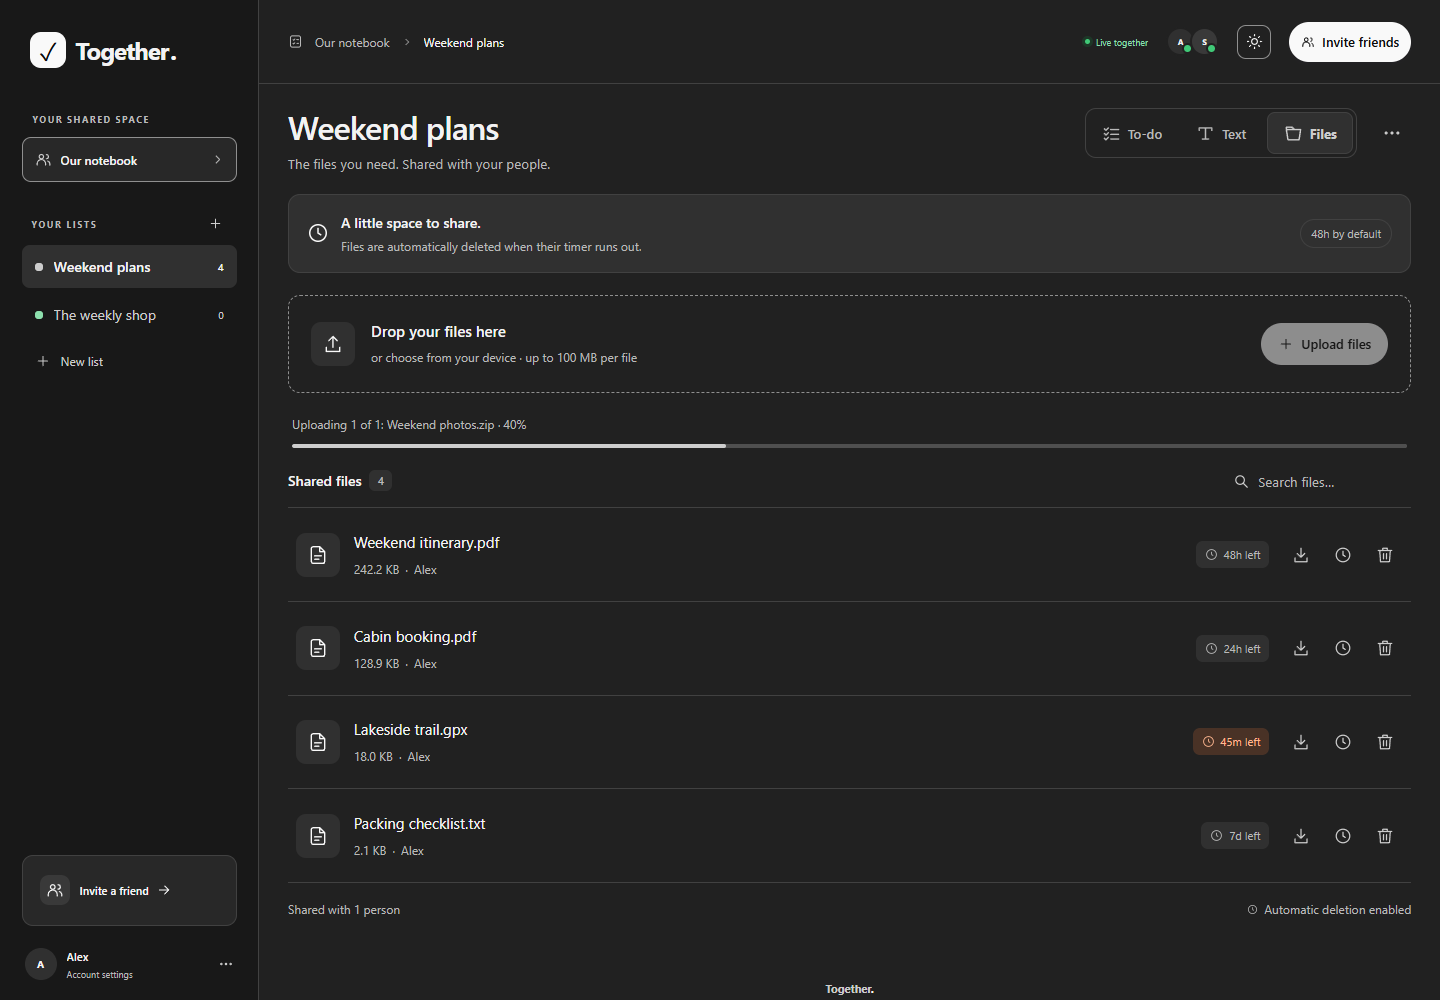
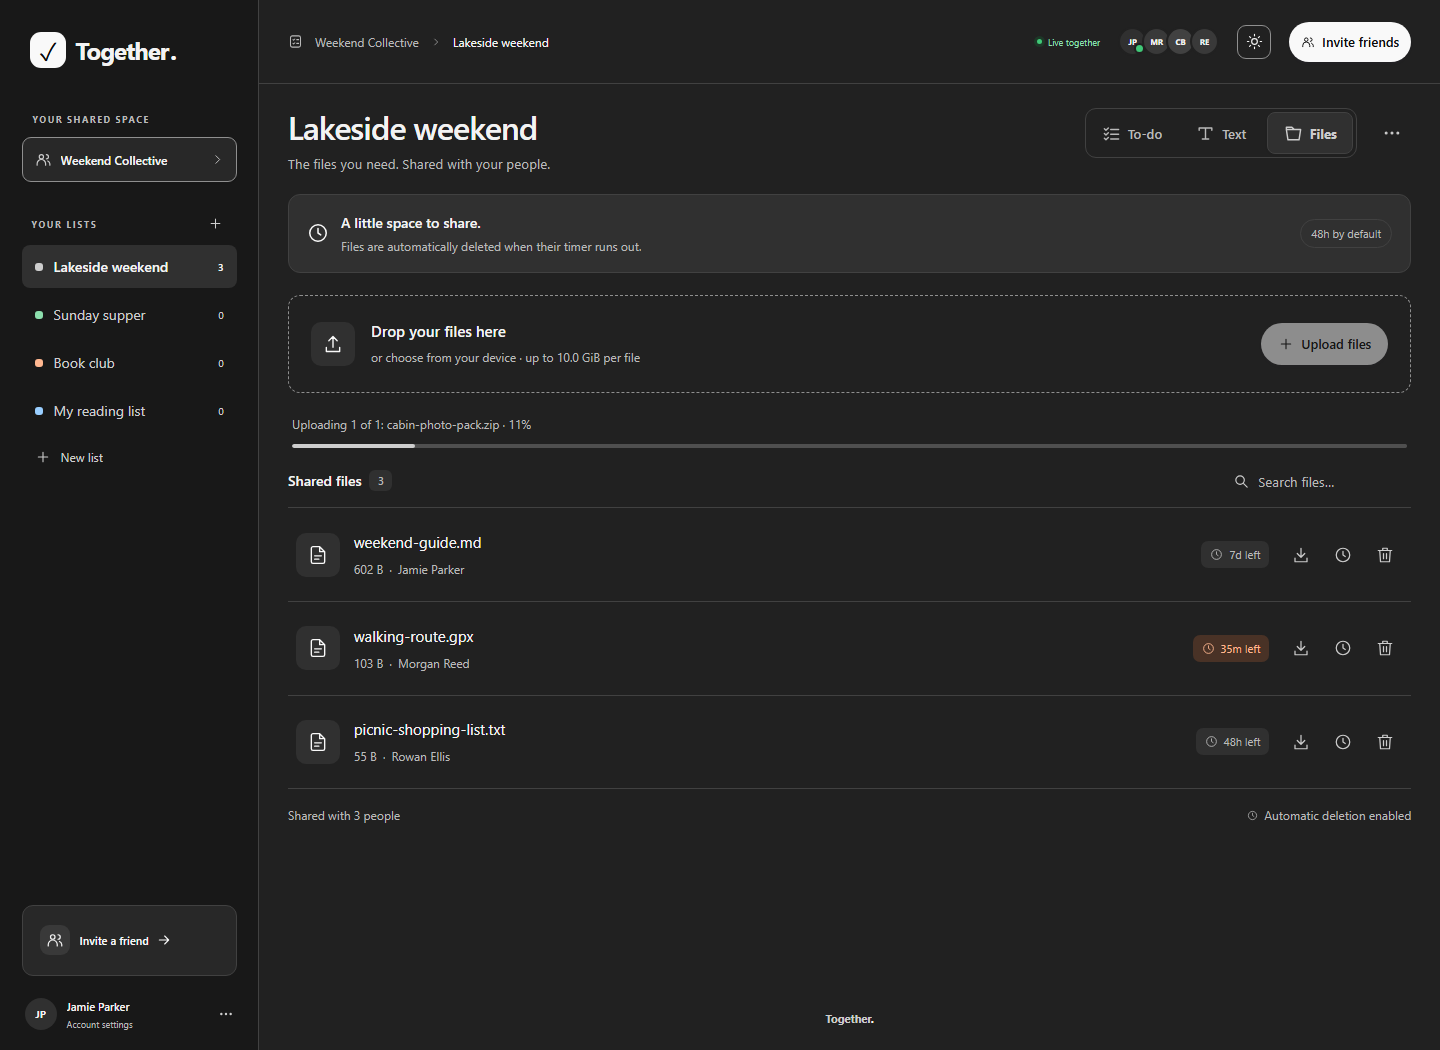
docs: refresh English README with fictional demo screenshots

diff --git a/README.md b/README.md
@@ -1,17 +1,23 @@
 # Together
 
-Private, shared to-do lists, text documents, and temporary file sharing for friends and small groups. Self-hosted with Node.js 24 and SQLite.
+A little less to remember. Private, shared to-do lists, collaborative notes, and temporary file sharing for friends and small groups.
 
-- Shared lists, task notes, search, and live updates.
-- Your browser remembers the last selected view (To-do, Text, or Files) and task filter (All tasks, To do, or Done), including after reopening the app or switching lists.
-- Switch each list between tasks and a shared text document. Add, rename, and delete text sheets using the tabs at the bottom. Text saves automatically and concurrent edits are merged live.
-- Use **View as Markdown** in the text sheet toolbar to preview headings, lists, links, tables, and code blocks. Choose **Edit text** to return to the original text; the preview also follows live changes.
-- Download a text sheet as **Plain text (.txt)** or **Markdown (.md)** using the download button in its toolbar. Both formats include the current text, including unsaved changes.
-- Share files with multi-file uploads, drag and drop, upload progress, filename search, downloads, and manual deletion (10 GiB per file by default; configurable by the notebook owner).
-- Files expire automatically after 48 hours by default. Set a different deletion time for each file using the clock button beside download.
-- Invite-only accounts with owner-managed access.
-- Private lists with per-person view or edit permissions, including tasks, text sheets, and shared files.
-- Responsive layout with light and dark themes.
+Self-host Together with **Node.js 24+ and SQLite**, or start it with Docker Compose. Invite your people, share only the lists they need, and keep tasks, plans, and files in one place.
+
+![Together in dark mode: a fictional group planning a lakeside weekend, with task notes, completion history, progress, and multiple lists](docs/screenshots/desktop-dark.png)
+
+All screenshots use an entirely fictional demo notebook, **Weekend Collective**. Names, email addresses, tasks, notes, and files are made-up examples captured in the running app.
+
+## What you can do
+
+| Feature | Included |
+| --- | --- |
+| Shared tasks | Multiple lists, colors, optional notes, search, task filters, progress, completion history, and bulk actions. |
+| Collaborative text | Multiple sheets per list, automatic saving, live merging of concurrent edits, Markdown preview, and text or Markdown downloads. |
+| Temporary file sharing | Multiple uploads, drag and drop, upload progress, filename search, downloads, configurable deletion times, and manual deletion. |
+| Invitations and permissions | Email-bound invitation links and separate view or edit access for each list. New lists start private. |
+| Live updates | Changes appear in connected browsers, with connection status and collaborator avatars. |
+| Personal preferences | Light and dark themes, responsive layouts, and remembered list, view, and task-filter selections. |
 
 ## Quick start
 
@@ -19,85 +25,183 @@ Private, shared to-do lists, text documents, and temporary file sharing for frie
 docker compose up -d --build
 ```
 
-Open [localhost:3000](http://localhost:3000), create the owner account, and share invitation links with friends. Create the owner account before making the app publicly accessible. Data persists in a Docker volume.
+Open [localhost:3000](http://localhost:3000) and create the first account. This account becomes the notebook owner and can invite other people. Create it before making the app publicly accessible.
 
-## Configuration
+Docker stores the database and uploaded files in the persistent `together-data` volume.
 
-Copy `.env.example` to `.env` to customize the public `APP_URL`, `PORT`, and `BIND_ADDRESS`. Use HTTPS for public hosting. For direct LAN access, set `BIND_ADDRESS=0.0.0.0` and `APP_URL` to your server's address.
+### Configuration
 
-Without Docker: run `npm start` with Node.js 24+; no dependencies to install. Checks: `npm run check` and `npm test`.
+Copy `.env.example` to `.env` to customize the Docker Compose settings:
 
-Source code lives in `src/server/` (Node.js and SQLite) and `src/web/` (browser UI). Tests live in `tests/`.
+| Setting | Default | Purpose |
+| --- | --- | --- |
+| `APP_URL` | `http://localhost:3000` | Public address people use to open Together. |
+| `PORT` | `3000` | Port exposed on the Docker host. |
+| `BIND_ADDRESS` | `127.0.0.1` | Host interface used by Docker Compose. |
 
-Text sheets support up to 100,000 characters each. Keep the tab open until it says “All changes saved”; if saving fails, retry or download the local text using the document toolbar.
+Use HTTPS for public hosting. For direct access on your local network, set `BIND_ADDRESS=0.0.0.0` and set `APP_URL` to your server's address.
 
-## File sharing
+### Run without Docker
 
-Open a list and select the **File share** icon beside the task and text document icons.
+With Node.js 24 or later installed:
 
-- Select **Upload files** to choose one or more files, or drag them into the **Drop your files here** area. The area highlights while dragging; uploads show the filename, percentage, and a progress bar. The current size limit is shown above the upload area.
-- Uploaded files appear one below another with their filename, size, uploader, and remaining time. Use **Search files** to filter by filename and the download button to save a copy.
-- Use the **clock button beside download** to change a file’s deletion time. Choose a duration in minutes, hours, or days, from **1 minute to 30 days**. The new countdown starts when you save; the dialog also shows the currently scheduled deletion time.
-- Use the trash button to delete a file immediately after confirming. Readers can download files; list owners and editors can also upload, change deletion times, and delete files.
+```sh
+npm start
+```
 
-Every completed upload starts with a **48-hour** lifetime. The server automatically deletes expired files from storage and updates connected browsers, even when no one has the list open. Downloads stop at expiry, and expired files cannot be extended. If the server was stopped, it cleans up overdue files on restart. Deleting a list also deletes its shared files.
+There are no dependencies to install. The server listens on all interfaces, using `PORT=3000` by default. For a native installation, set `APP_URL`, `PORT`, and `DATABASE_PATH` through your process environment; `.env` is used by Docker Compose and is not loaded automatically by `npm start`. The default database path is `data/together.sqlite`.
+
+## Tasks that keep everyone on the same page
+
+Create a list, give it a color, and add tasks with optional notes. Search task titles and notes, switch between **All tasks**, **To do**, and **Done**, and see how much is already finished.
+
+Tasks show who last changed them. Open a task to see its full notes and creation and update details. Completed tasks record who checked them off and when. Use **Check off all** to finish the remaining tasks, or open **Done** to delete completed tasks in one action after confirmation.
+
+The browser remembers your selected list, task filter, and **To-do**, **Text**, or **Files** view when you return.
+
+| Desktop, dark theme | Mobile, dark theme |
+| --- | --- |
+| <img src="docs/screenshots/desktop-dark.png" alt="Dark theme with five fictional weekend tasks, notes, collaborator avatars, two completed tasks, and list progress" width="680"> | <img src="docs/screenshots/mobile-dark.png" alt="Responsive dark theme with task filters, search, notes, edit and delete controls, and completion history" width="240"> |
+
+<details>
+<summary>See task notes and edit history</summary>
+
+![Task details with an editable title, optional notes, delete and save actions, and creation and update metadata](docs/screenshots/task-details-dark.png)
+
+</details>
+
+## Write together, preview Markdown, and take a copy
+
+Select **Text** in any list to open its shared text sheets. Use the tabs and plus button at the bottom to switch or add sheets, and the toolbar to rename or delete them. Changes save automatically, and concurrent edits merge live.
+
+Choose **View as Markdown** to preview headings, checklists, links, tables, and code blocks. Choose **Edit text** to return to the source. The preview follows live changes too.
+
+The download button offers **Plain text (.txt)** and **Markdown (.md)**. Both include the current local text, including changes that have not finished saving.
+
+| Shared text editor, dark theme | Markdown preview, dark theme |
+| --- | --- |
+| <img src="docs/screenshots/desktop-text-dark.png" alt="Shared weekend guide in the text editor with automatic save status and Weekend guide, Packing list, and Meal ideas sheet tabs" width="560"> | <img src="docs/screenshots/desktop-markdown-dark.png" alt="The same guide rendered as Markdown with a schedule table, checklist, blockquote, and multiple sheet tabs" width="560"> |
+
+Each sheet supports up to **100,000 characters**. Keep the tab open until the status says **All changes saved**. If saving fails, retry or download the local text before closing the tab.
+
+<details>
+<summary>See text and Markdown export options</summary>
+
+![Download sheet dialog offering plain text and Markdown formats](docs/screenshots/text-download-dark.png)
+
+</details>
+
+## Share files with an automatic cleanup timer
+
+Select **Files** in any list. Choose **Upload files** to select multiple files, or drag them into the upload area. Uploads show the current filename, percentage, and progress bar.
+
+The file list shows each filename, size, uploader, and remaining lifetime. Search by filename, download a copy, change its deletion time with the clock button, or delete it immediately after confirmation.
+
+| Desktop, dark theme | Mobile, dark theme |
+| --- | --- |
+| <img src="docs/screenshots/file-share-desktop-dark.png" alt="Shared demo files with upload controls, filename search, uploader names, and different lifetimes including a file expiring in 35 minutes" width="680"> | <img src="docs/screenshots/file-share-mobile-dark.png" alt="Mobile file sharing with upload controls, filename search, download, change deletion time, and delete actions" width="240"> |
+
+### File lifetimes
+
+Every completed upload starts with a **48-hour** lifetime. The clock button lets list owners and editors choose a new duration from **1 minute to 30 days**, in minutes, hours, or days. The countdown starts when the change is saved.
+
+The server deletes expired files from storage and updates connected browsers even when nobody has the list open. Downloads stop at expiry; expired files cannot be extended. If the server was stopped, overdue files are cleaned up on restart. Deleting a list also deletes its uploaded files.
+
+<details>
+<summary>See drag and drop, a real upload in progress, and the deletion-time dialog</summary>
+
+The drop target highlights when a file is dragged over it:
+
+![Highlighted drag-and-drop area above three shared demo files](docs/screenshots/file-share-drag-and-drop.png)
+
+A real demo upload in progress:
+
+![A demo file uploading with its filename, percentage, and progress bar](docs/screenshots/file-share-upload-dark.png)
+
+The deletion-time dialog shows the current schedule and a choice of units:
+
+![Change deletion time dialog with a duration, unit selector, current schedule, and Save time button](docs/screenshots/file-share-expiry-dark.png)
+
+</details>
 
 ### Upload size limit
 
-As the notebook owner, click the **notebook name in the sidebar**, set **Maximum size per file** in bytes, MiB, or GiB, then click **Save upload limit**. The default is **10 GiB**, including for existing installations without a saved limit. The setting is stored in SQLite, survives restarts, and updates in connected browsers. Only the notebook owner can change it.
+The default limit is **10 GiB per file**. The notebook owner can click the notebook name in the sidebar, set **Maximum size per file** in bytes, MiB, or GiB, and select **Save upload limit**. This setting persists across restarts and updates in connected browsers.
 
-The limit applies to each new upload, including streamed uploads without a declared size. Uploads already in progress use the limit in effect when they started; existing files remain available. Values must be positive whole bytes, up to 9,007,199,254,740,991 bytes. One MiB is 1,048,576 bytes; one GiB is 1,073,741,824 bytes.
+The limit applies to each new upload, including streamed uploads without a declared size. An upload already in progress uses the limit in effect when it started; existing files remain available. Values must be positive whole bytes, up to 9,007,199,254,740,991 bytes. One MiB is 1,048,576 bytes; one GiB is 1,073,741,824 bytes.
 
-Browser and server uploads have a 24-hour time limit. If you use a reverse proxy, configure its request-size and timeout limits to accommodate the uploads you allow, and ensure sufficient free disk space.
+Browser and server uploads have a 24-hour time limit. Configure reverse-proxy request-size and timeout limits to accommodate the uploads you allow, and provide enough free disk space.
 
-### File storage
+<details>
+<summary>See notebook settings and the upload limit</summary>
 
-Files are stored on the server beside the SQLite database:
+![Notebook settings with the fictional Weekend Collective name and a configurable per-file upload limit](docs/screenshots/notebook-settings-dark.png)
+
+</details>
+
+## Invite your people and choose what they can access
+
+The notebook owner creates personal invitation links using **Invite friends**. Links are bound to the invited email address, expire after **7 days**, can be revoked, and can only be used once. Share the link yourself; Together does not send an email automatically.
+
+New lists are private to their creator. Invite people to the notebook, then open **List options → Manage access** to share an individual list.
+
+| Permission | What it allows |
+| --- | --- |
+| **No access** | The list and its contents are unavailable to that member. |
+| **Can view** | Read tasks and text sheets, and download text sheets and shared files. |
+| **Can edit** | Everything viewers can do, plus rename the list, change tasks and sheets, upload or delete files, and adjust file deletion times. |
+| **List creator** | Full access, including managing permissions and deleting the entire list. |
+
+Permissions apply to tasks, text sheets, and files together. The notebook owner has no automatic access to another member's private lists. Newly invited members receive no automatic list access.
+
+| Invitations and members | Per-person list permissions |
+| --- | --- |
+| <img src="docs/screenshots/invite-dark.png" alt="Invitation dialog with fictional members Jamie, Morgan, Casey, and Rowan, plus a pending invitation for Taylor" width="560"> | <img src="docs/screenshots/list-access-dark.png" alt="List access dialog giving Morgan and Rowan edit permission and Casey view permission" width="560"> |
+
+Access changes take effect immediately on the server and refresh in connected tabs. Removing a member revokes their sessions and list grants. Members who own lists must delete those lists before their account can be removed; removal never silently exposes or deletes their private lists. Access controls cannot retract copies someone has already read or downloaded.
+
+On the first upgrade from an older installation without private lists, existing lists belong to the notebook owner and retain edit access for existing members. This migration runs once; subsequent restarts preserve list ownership and permissions.
+
+## Light theme examples
+
+Prefer a brighter workspace? Switch themes with the button in the top bar. The light theme uses dark text and clear control outlines on pale surfaces. Your browser remembers your choice.
+
+| Desktop, light theme | Mobile, light theme |
+| --- | --- |
+| <img src="docs/screenshots/desktop-light.png" alt="Light theme with dark task text, notes, list progress, and collaborator avatars" width="680"> | <img src="docs/screenshots/mobile-light.png" alt="Mobile light theme showing the same fictional weekend tasks and completion history" width="240"> |
+
+## Storage and backups
 
 | Environment | Database | Uploaded files |
 | --- | --- | --- |
 | Local defaults | `data/together.sqlite` | `data/together.sqlite-files/` |
 | Docker | `/app/data/together.sqlite` | `/app/data/together.sqlite-files/` |
 
-Docker keeps both in the existing `together-data` volume. With a custom `DATABASE_PATH`, the upload directory is named `<database filename>-files/` in the same directory as that database. Files use random IDs on disk; their original names, sizes, uploaders, and deletion times are stored in SQLite. Back up both the database and its upload directory to preserve shared files.
+Docker keeps both in the `together-data` volume. With a custom `DATABASE_PATH`, the upload directory is named `<database filename>-files/` beside the database. Files use random IDs on disk; original names, sizes, uploaders, and deletion times are stored in SQLite.
 
-## List permissions
+Back up both the database and its upload directory to preserve shared files. Stop the app while taking a filesystem backup so the database and uploads are captured consistently.
 
-New lists are private to their creator. Invite people to the notebook, then open a list’s **List options → Manage access** to give individual members **Can view**, **Can edit**, or **No access**. Changes take effect immediately on the server and refresh in connected tabs. Viewers can read tasks and download text sheets and shared files; editors can also rename the list, change its tasks and sheets, upload or delete files, and adjust file deletion times. Only the list creator can manage access or delete the whole list. Deleting a list also deletes its uploaded files. The notebook owner has no automatic access to another member’s private lists.
+## Account settings and recovery
 
-On the first upgrade, existing lists belong to the notebook owner and keep edit access for all existing members. Newly invited members receive no automatic list access. This migration runs once; subsequent restarts preserve private lists and permissions.
+Open your profile in the sidebar to change your password or sign out. Changing a password signs out other sessions for that account.
 
-Removing a member revokes their sessions and list grants. Members who own lists must delete those lists before their account can be removed; removing an account never silently exposes or deletes its private lists. A revoked reader’s browser clears the list on its next successful refresh, but access controls cannot retract copies someone already read or downloaded.
+If an account needs a password reset, run the interactive recovery tool on the server:
 
-## Screenshots
+```sh
+docker compose exec -it together node src/server/reset-password.mjs jamie@example.com
+```
 
-| Desktop · dark theme | Mobile · light theme |
-| --- | --- |
-| <img src="docs/screenshots/desktop-dark.png" alt="Shared to-do list on desktop in dark mode" width="640"> | <img src="docs/screenshots/mobile-light.png" alt="Shared to-do list on mobile in light mode" width="200"> |
+Replace the fictional email address with the account to recover. The tool prompts for a new password without displaying it and signs out all existing sessions for that account. For a native installation, run `node src/server/reset-password.mjs EMAIL` with the same `DATABASE_PATH` as the app.
 
-Shared text document with multiple sheets:
+## Development
 
-<img src="docs/screenshots/desktop-text-dark.png" alt="Shared text document on desktop in dark mode with saved trip notes and multiple sheet tabs" width="960">
+```sh
+npm run dev
+npm run check
+npm test
+```
 
-### File sharing
-
-The file list shows remaining lifetimes and the download, clock, and delete buttons:
-
-| Desktop · dark theme | Mobile · light theme |
-| --- | --- |
-| <img src="docs/screenshots/file-share-desktop-dark.png" alt="Shared file list with download, configurable deletion time, and delete buttons on desktop" width="640"> | <img src="docs/screenshots/file-share-mobile-light.png" alt="Shared file list and upload area on mobile in light mode" width="200"> |
-
-Dragging a file over the upload area highlights the drop target:
-
-<img src="docs/screenshots/file-share-drag-and-drop.png" alt="Highlighted drag-and-drop area above the shared file list" width="960">
-
-A real drag-and-drop upload in progress, with its filename, percentage, and progress bar:
-
-<img src="docs/screenshots/file-share-upload-dark.png" alt="File upload in progress with its filename, percentage, and progress bar above the file list" width="960">
-
-The clock button opens the deletion-time dialog:
-
-<img src="docs/screenshots/file-share-expiry-dark.png" alt="Dialog for setting a file's automatic deletion time in minutes, hours, or days" width="960">
+`npm run dev` restarts the server when source files change. Source code lives in `src/server/` for Node.js and SQLite and `src/web/` for the browser UI. Tests live in `tests/`.
 
 ## License
 
